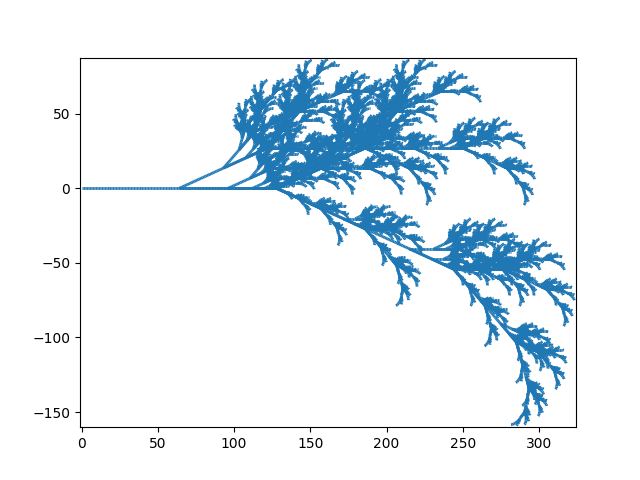
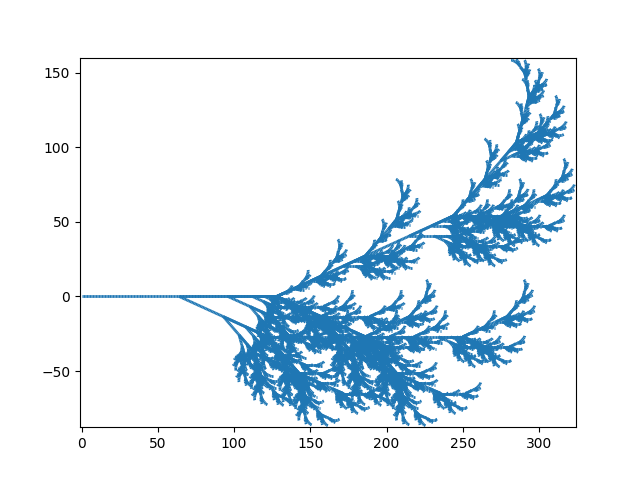
3d state

diff --git a/lsys.py b/lsys.py
@@ -6,28 +6,58 @@ import matplotlib.collections as mc
 import matplotlib.pyplot as plt
 
 class State:
-    def __init__(self, p, v):
-        self.p = np.array(p)
-        self.v = np.array(v)
-
     def copy(self):
-        return State(p=self.p.copy(),
-                     v=self.v.copy())
+        raise NotImplementedError()
 
+    def turn_transform(self):
+        raise NotImplementedError()        
+    
     def move(self, mag):
         self.p += self.v*mag
 
     def turn(self, angle):
-        r = angle * np.pi / 180.0
-        m = np.array([ [ np.cos(r), np.sin(r) ],
-                       [ -np.sin(r), np.cos(r) ] ])
-        
+        m = self.turn_transform(angle)
         self.v = np.dot(m, self.v)
+        
+class State2D(State):
+    def __init__(self, p=None, v=None):
+        self.p = p if p is not None else np.array([0.0,0.0])
+        self.v = v if v is not None else np.array([1.0,0.0])
+
+    def copy(self):
+        return State2D(p=self.p.copy(),
+                       v=self.v.copy())
+    
+    def turn_transform(self, angle):
+        r = angle * np.pi / 180.0
+
+        m = np.array([ [ np.cos(r), np.sin(r) ],
+                       [ -np.sin(r), np.cos(r) ] ])        
+
+class State3D(State):
+    def __init__(self, p=None, v=None, u=None):
+        self.p = p if p is not None else np.array([0.0, 0.0, 0.0])
+        self.v = v if v is not None else np.array([1.0, 0.0, 0.0])
+        self.u = u if u is not None else np.array([0.0, 0.0, 1.0])
+
+    def copy(self):
+        return State3D(p=self.p.copy(),
+                       v=self.v.copy(),
+                       u=self.u.copy())
+    
+    def turn_transform(self, angle):
+        th = angle * np.pi / 180.0
+        cth = np.cos(th)
+        sth = np.sin(th)
+        u = self.u
+        
+        return np.array([ [ cth + u[0]*u[0]*(1-cth),      u[0]*u[1]*(1-cth) - u[2]*sth,  u[0]*u[2]*(1-cth) + u[1]*sth ],
+                          [ u[1]*u[0]*(1-cth) + u[2]*sth, cth + u[1]*u[1]*(1-cth),       u[1]*u[2]*(1-cth) - u[0]*sth ],
+                          [ u[2]*u[0]*(1-cth) - u[1]*sth, u[2]*u[1]*(1-cth) + u[0]*sth,  cth + u[2]*u[2]*(1-cth) ] ])
 
 class Turtle:
     def __init__(self):
-        self.state = State(p=[0.0,0.0],
-                           v=[1.0,0.0])
+        self.state = State3D()
 
         self.segs = []
 
@@ -48,7 +78,8 @@ class Turtle:
         self.state.turn(angle)
 
     def plot(self):
-        segs = np.array(self.segs)
+        segs = np.array(self.segs)[:,:,:2]
+        
         lc = mc.LineCollection(segs, linewidth=2)
         fig, ax = plt.subplots()
         ax.set_xlim(segs[:,:,0].min(axis=None)-1,
